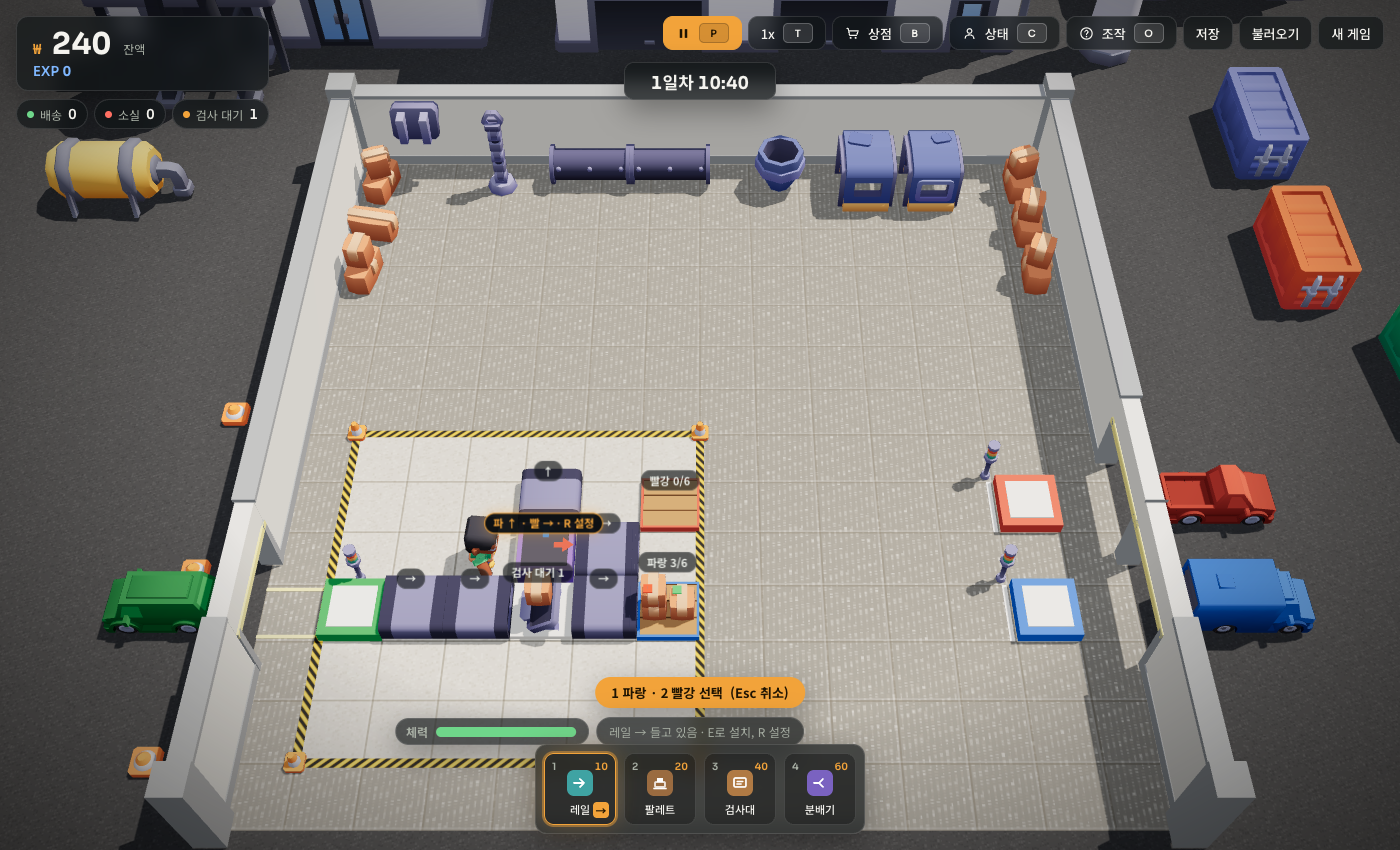
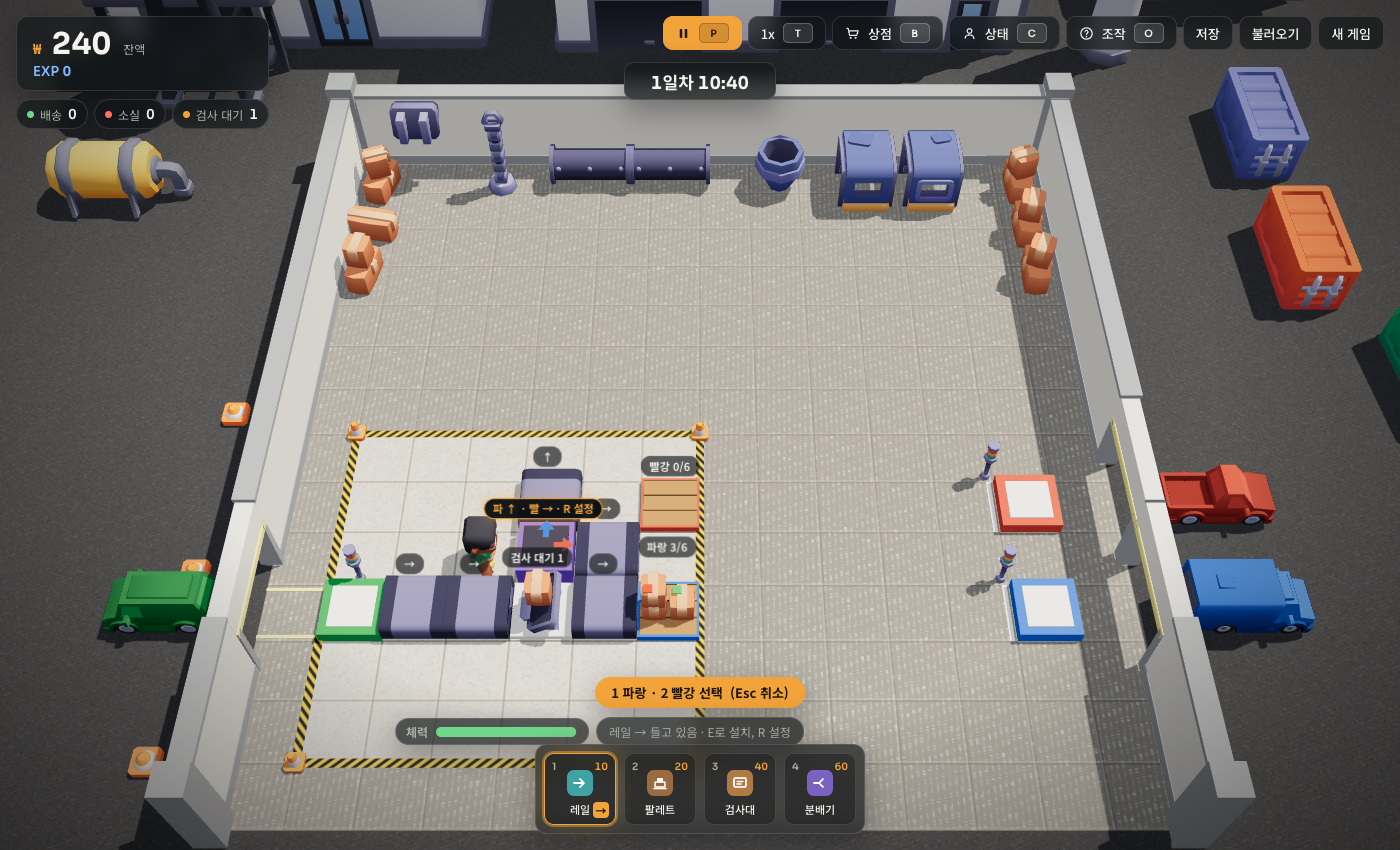
design(3d): raise status bars off the splitter hub, test tool red reset (spec 11.8)

Changed region(s): [[0.2764, 0.52, 0.5221, 0.7035], [0.4607, 0.52, 0.5221, 0.5812]]

diff --git a/docs/design/prototype/parcel-factory-3d.html b/docs/design/prototype/parcel-factory-3d.html
@@ -630,7 +630,7 @@
     }
     return '';
   }
-  const barTop = c => (c.type === 'pallet' ? 0.12 + 0.4 * Math.ceil(c.pile.length / 2) : c.type === 'table' ? 0.6 : 0.4) + 0.25; // 타일 윗면(TopHeight) + 0.25
+  const barTop = c => (c.type === 'pallet' ? 0.12 + 0.4 * Math.ceil(c.pile.length / 2) : c.type === 'table' ? 0.6 : 0.4) + 0.45; // 타일 윗면(TopHeight) + 0.45 (분배기 화살표가 가려지지 않도록; 화면에서는 카메라 쪽으로 0.15칸 더 당긴다)
 
   // ---------------- HUD ----------------
   const $ = id => document.getElementById(id);
@@ -950,7 +950,7 @@
       const faced = x === f.x && y === f.y && !c.demolishing, html = barInfo(c, x, y) + (faced ? ' · R 설정' : '');
       if (html !== b.html) { b.html = html; b.el.innerHTML = html; }
       if (faced !== b.on) { b.on = faced; b.el.classList.toggle('on', faced); }
-      tmpV.set(W(x), barTop(c), Z(y)).project(camera);
+      tmpV.set(W(x), barTop(c), Z(y) + 0.15).project(camera); // 분배기 허브 앞쪽 화살표가 보이도록 0.15칸 뒤로
       const hid = tmpV.z > 1; if (hid !== b.hid) { b.hid = hid; b.el.hidden = hid; }
       if (!hid) b.el.style.transform = 'translate(' + ((tmpV.x + 1) / 2 * cw).toFixed(1) + 'px,' + ((1 - tmpV.y) / 2 * ch - 4).toFixed(1) + 'px) translate(-50%,-100%)';
     }
